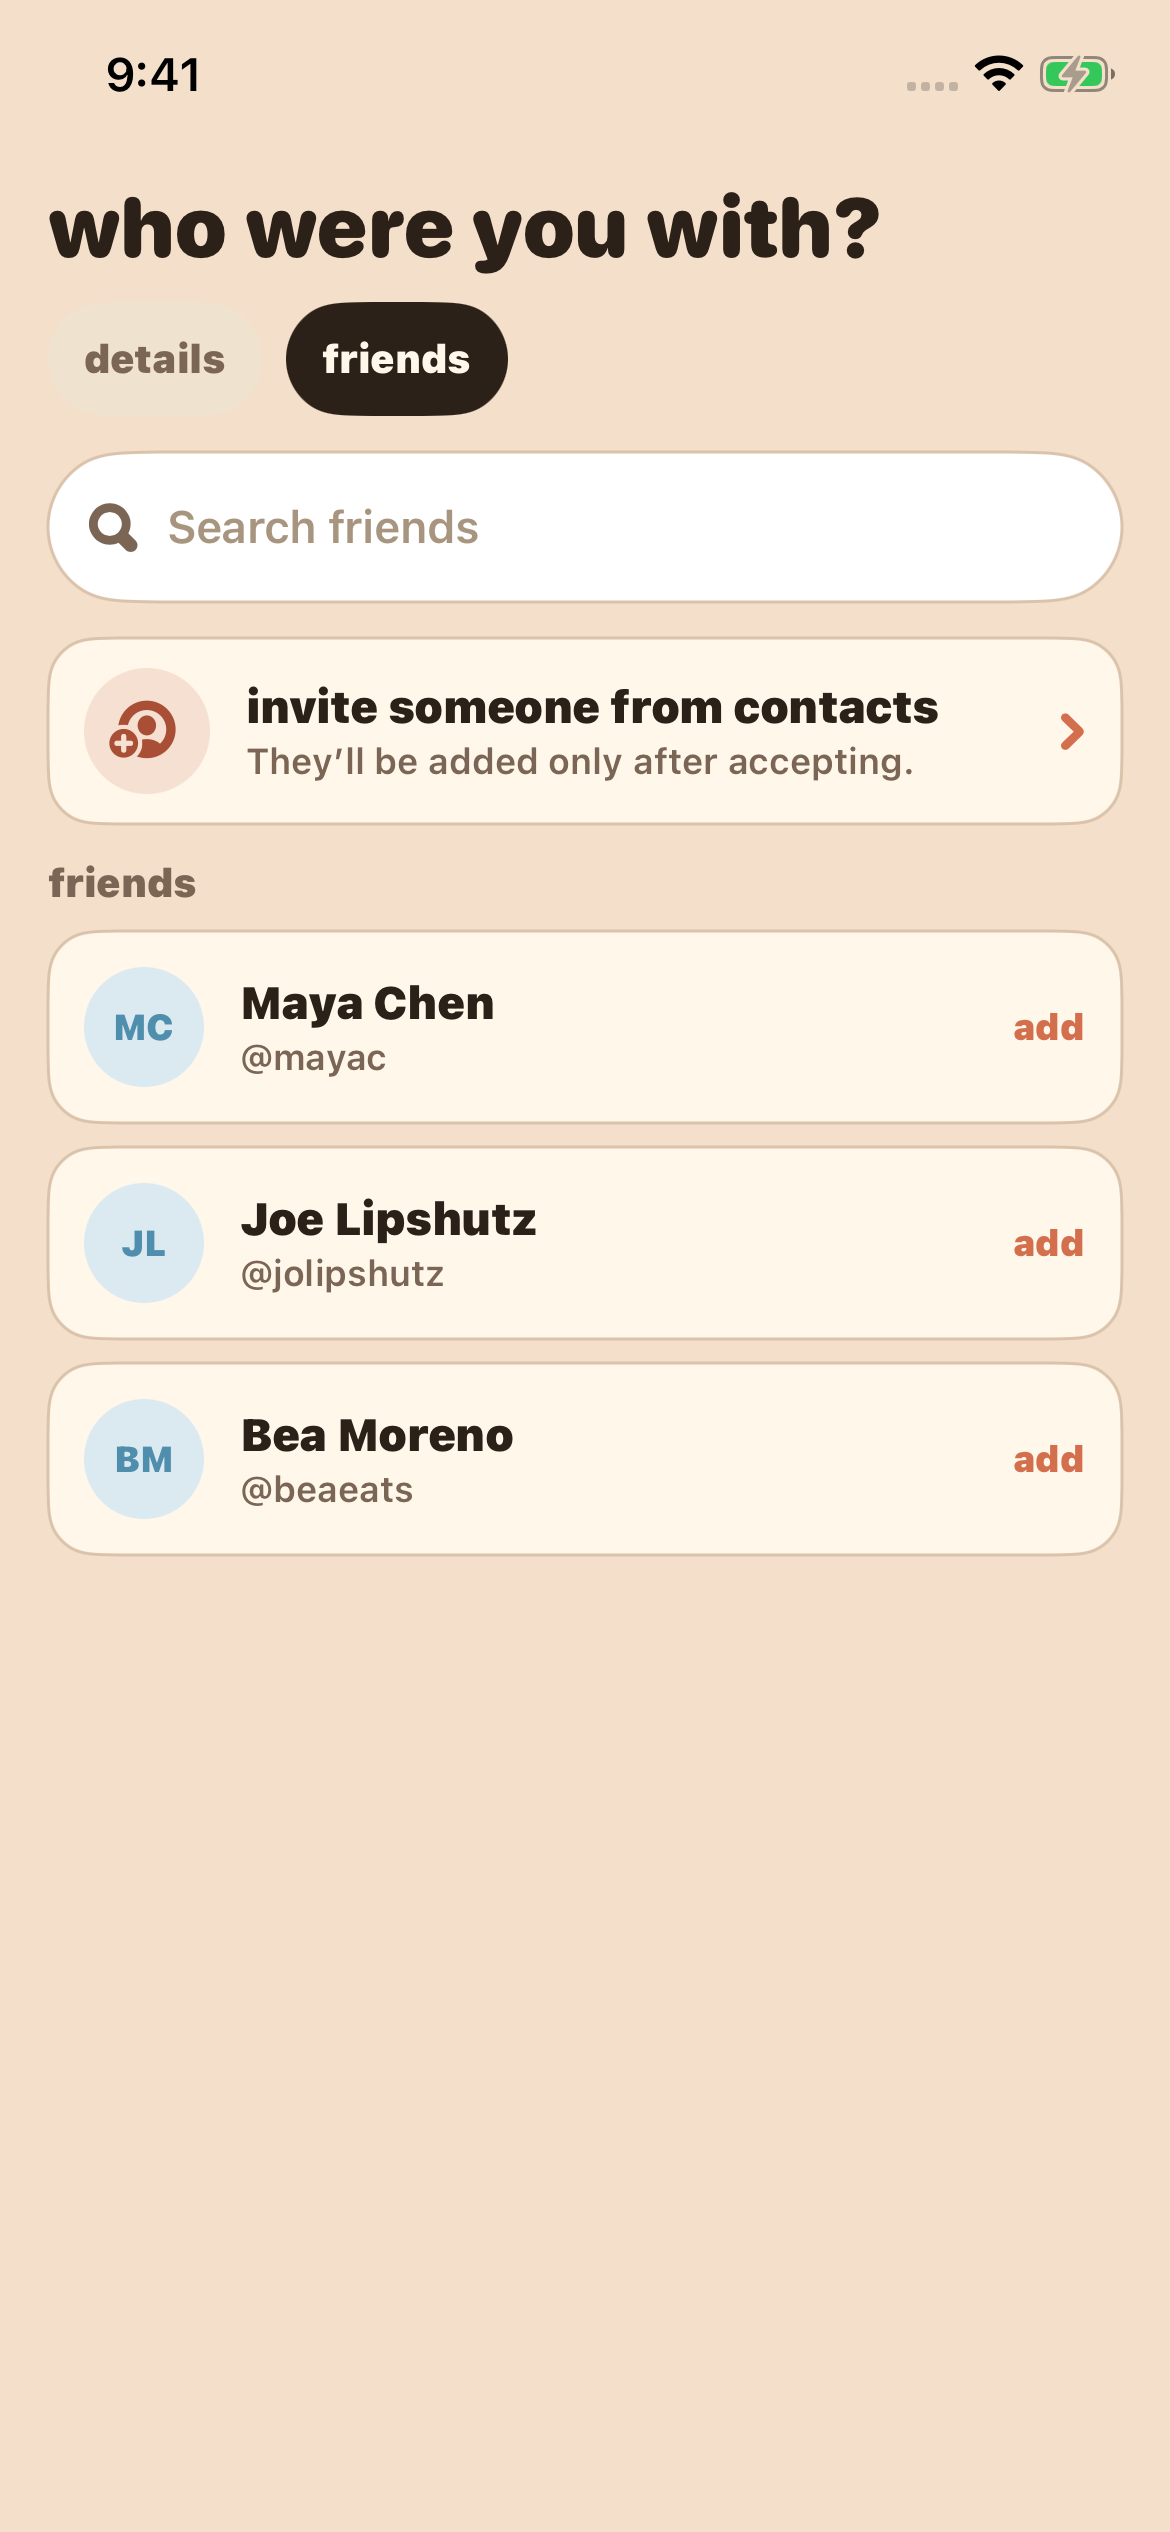
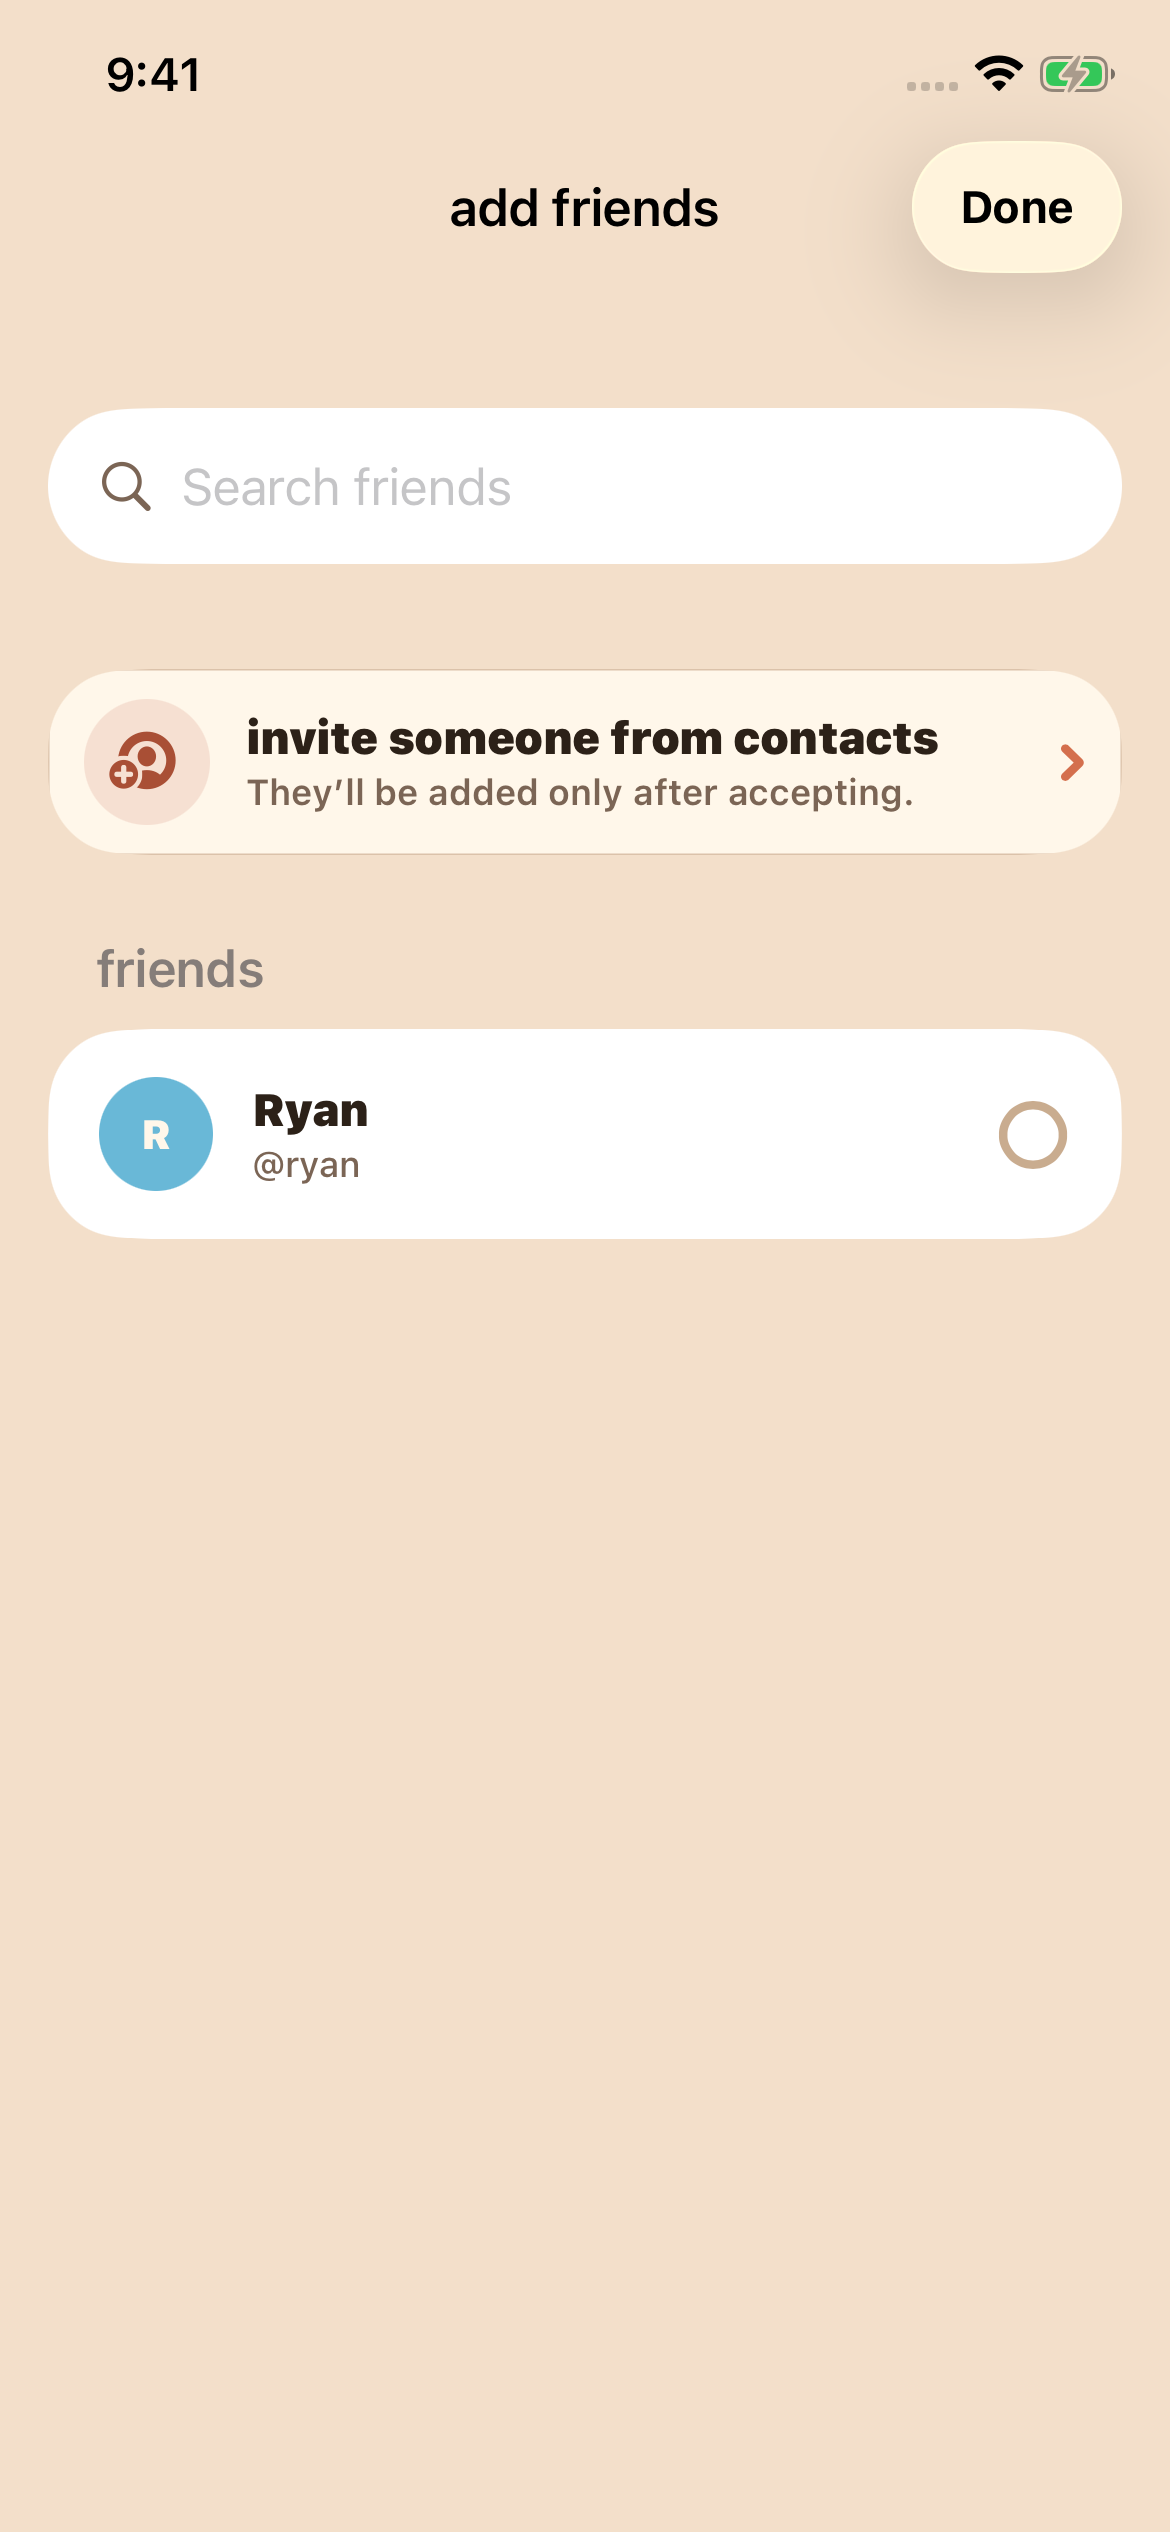
Place contact invite in check-in friends picker

Changed region(s): [[0.0308, 0.0624, 0.9846, 0.624], [0.8308, 0.0624, 0.9231, 0.0936]]

diff --git a/Wander/Features/Invites/InviteMockups.swift b/Wander/Features/Invites/InviteMockups.swift
@@ -29,7 +29,7 @@ struct InviteMockupRoot: View {
         Group {
             switch page {
             case .checkInEntry:
-                InviteEntryPointMockup(surface: .sharedVisit(placeName: "Gjelina"))
+                SharedVisitFriendPickerMockup()
             case .feedPeopleEntry:
                 InviteEntryPointMockup(surface: .feedPeople)
             case .listCollaboratorEntry:
@@ -82,6 +82,17 @@ struct InviteMockupRoot: View {
     }
 }
 
+@MainActor
+private struct SharedVisitFriendPickerMockup: View {
+    @StateObject private var store = WanderStore(fixtures: WanderFixtures.seed())
+    @State private var selectedUserIDs: [String] = []
+
+    var body: some View {
+        SharedVisitFriendPicker(selectedUserIDs: $selectedUserIDs)
+            .environmentObject(store)
+    }
+}
+
 private struct InviteEntryPointMockup: View {
     let surface: InviteSurface
     @State private var isPresentingInviteSheet = false
@@ -102,6 +113,16 @@ private struct InviteEntryPointMockup: View {
                 .padding(.bottom, WanderTheme.spacing8)
             }
             .wanderScreen()
+            .navigationTitle(navigationTitle)
+            .navigationBarTitleDisplayMode(.inline)
+            .toolbar {
+                if case .sharedVisit = surface {
+                    ToolbarItem(placement: .topBarTrailing) {
+                        Button("Done") {}
+                            .font(.system(size: 15, weight: .bold))
+                    }
+                }
+            }
         }
         .sheet(isPresented: $isPresentingInviteSheet) {
             ContactInviteSheet(surface: surface, contacts: InviteMockupData.contacts)
@@ -112,14 +133,7 @@ private struct InviteEntryPointMockup: View {
     private var mockHeader: some View {
         switch surface {
         case .sharedVisit:
-            VStack(alignment: .leading, spacing: WanderTheme.spacing2) {
-                Text("who were you with?")
-                    .font(.system(size: 28, weight: .black, design: .rounded))
-                HStack(spacing: WanderTheme.spacing2) {
-                    mockSegment("details", selected: false)
-                    mockSegment("friends", selected: true)
-                }
-            }
+            EmptyView()
         case .feedPeople:
             VStack(alignment: .leading, spacing: WanderTheme.spacing2) {
                 Text("feed")
@@ -138,6 +152,11 @@ private struct InviteEntryPointMockup: View {
                     .foregroundStyle(WanderTheme.textMuted.color)
             }
         }
+    }
+
+    private var navigationTitle: String {
+        if case .sharedVisit = surface { return "add friends" }
+        return ""
     }
 
     private func mockSegment(_ label: String, selected: Bool) -> some View {

diff --git a/WanderTests/InviteFrameworkTests.swift b/WanderTests/InviteFrameworkTests.swift
@@ -59,4 +59,52 @@ final class InviteFrameworkTests: XCTestCase {
         XCTAssertFalse(selection.contains("maya"))
         XCTAssertTrue(selection.contains("joe"))
     }
+
+    func testContactMatchMapsExistingAndNonUserContactsWithoutPIIAnalytics() {
+        let existing = InviteContact(
+            contactMatch: ContactMatch(
+                id: "maya-contact",
+                displayName: "Maya Chen",
+                handle: "mayac",
+                userID: "user-maya",
+                isAlreadyFollowing: true,
+                followsCurrentUser: false
+            )
+        )
+        let nonUser = InviteContact(
+            contactMatch: ContactMatch(
+                id: "sam-contact",
+                displayName: "Sam Rivera",
+                handle: nil,
+                userID: nil,
+                isAlreadyFollowing: false,
+                followsCurrentUser: false
+            )
+        )
+
+        XCTAssertEqual(existing.relationship, .recmeUser(handle: "mayac", userID: "user-maya"))
+        XCTAssertTrue(existing.isFrequentlyContacted)
+        XCTAssertEqual(nonUser.relationship, .contactOnly)
+        XCTAssertNil(nonUser.contactDetail)
+    }
+
+    func testCheckInFriendPickerPlacesContactInviteBetweenSearchAndFriends() throws {
+        let projectRoot = URL(fileURLWithPath: #filePath)
+            .deletingLastPathComponent()
+            .deletingLastPathComponent()
+        let source = try String(
+            contentsOf: projectRoot.appendingPathComponent(
+                "Wander/Features/SharedVisits/SharedVisitComponents.swift"
+            )
+        )
+
+        let search = try XCTUnwrap(source.range(of: "TextField(\"Search friends\""))
+        let invite = try XCTUnwrap(source.range(of: "InviteEntryPointButton(surface: .sharedVisit"))
+        let friends = try XCTUnwrap(source.range(of: "Section(\"friends\")"))
+
+        XCTAssertLessThan(search.lowerBound, invite.lowerBound)
+        XCTAssertLessThan(invite.lowerBound, friends.lowerBound)
+        XCTAssertTrue(source.contains("Button(\"Done\") { dismiss() }"))
+        XCTAssertTrue(source.contains("ContactInviteSheet("))
+    }
 }

diff --git a/Wander/Features/SharedVisits/SharedVisitComponents.swift b/Wander/Features/SharedVisits/SharedVisitComponents.swift
@@ -122,6 +122,8 @@ struct SharedVisitFriendPicker: View {
     @EnvironmentObject private var store: WanderStore
     @Binding var selectedUserIDs: [String]
     @State private var query = ""
+    @State private var isPresentingContactInvites = false
+    @State private var inviteContacts: [InviteContact] = []
 
     private var friends: [LocalProfile] {
         let normalizedQuery = query.trimmingCharacters(in: .whitespacesAndNewlines).lowercased()
@@ -147,6 +149,15 @@ struct SharedVisitFriendPicker: View {
                             .autocorrectionDisabled()
                     }
                 }
+
+                Section {
+                    InviteEntryPointButton(surface: .sharedVisit(placeName: nil)) {
+                        Task { await presentContactInvites() }
+                    }
+                }
+                .listRowInsets(EdgeInsets())
+                .listRowBackground(Color.clear)
+                .listRowSeparator(.hidden)
 
                 Section("friends") {
                     if friends.isEmpty {
@@ -193,7 +204,20 @@ struct SharedVisitFriendPicker: View {
                         .font(.system(size: 15, weight: .bold))
                 }
             }
+            .sheet(isPresented: $isPresentingContactInvites) {
+                ContactInviteSheet(
+                    surface: .sharedVisit(placeName: nil),
+                    contacts: inviteContacts
+                )
+            }
         }
+    }
+
+    @MainActor
+    private func presentContactInvites() async {
+        let matches = (try? await store.contactProvider.matches()) ?? []
+        inviteContacts = matches.map(InviteContact.init(contactMatch:))
+        isPresentingContactInvites = true
     }
 
     private func toggle(_ userID: String) {

diff --git a/Wander/Features/Invites/InviteFramework.swift b/Wander/Features/Invites/InviteFramework.swift
@@ -146,6 +146,32 @@ struct InviteContact: Identifiable, Equatable {
         guard case .recmeUser(let handle, _) = relationship else { return nil }
         return handle
     }
+
+    init(
+        id: String,
+        displayName: String,
+        contactDetail: String?,
+        relationship: InviteContactRelationship,
+        isFrequentlyContacted: Bool
+    ) {
+        self.id = id
+        self.displayName = displayName
+        self.contactDetail = contactDetail
+        self.relationship = relationship
+        self.isFrequentlyContacted = isFrequentlyContacted
+    }
+
+    init(contactMatch: ContactMatch) {
+        id = contactMatch.id
+        displayName = contactMatch.displayName
+        contactDetail = nil
+        if let handle = contactMatch.handle, let userID = contactMatch.userID {
+            relationship = .recmeUser(handle: handle, userID: userID)
+        } else {
+            relationship = .contactOnly
+        }
+        isFrequentlyContacted = contactMatch.isAlreadyFollowing || contactMatch.followsCurrentUser
+    }
 }
 
 struct InviteContactSection: Identifiable, Equatable {

diff --git a/docs/reviews/rec-224-invite-mockups/README.md b/docs/reviews/rec-224-invite-mockups/README.md
@@ -1,8 +1,9 @@
 # REC-224 invite mockups
 
 This first milestone turns the attached "Add members" recording into a reusable
-rec.me SwiftUI pattern before Contacts, matching, deep-link, and share plumbing
-are connected.
+rec.me SwiftUI pattern. The check-in Friends picker uses the real entry point;
+Feed People and list collaborators remain reviewable mock surfaces while native
+Contacts, matching, deep-link, and share plumbing are still to come.
 
 ## Direction to review
 
@@ -47,4 +48,5 @@ Launch with `-WanderInviteMockup <page>`, where `<page>` is one of:
 - privacy-preserving phone/email normalization and rec.me account matching
 - native share-sheet result and cancellation handling
 - scoped invite tokens, deferred deep links, and acceptance reconciliation
-- production entry-point integration and PII-free funnel analytics
+- Feed People and list-collaborator production entry-point integration
+- PII-free funnel analytics
